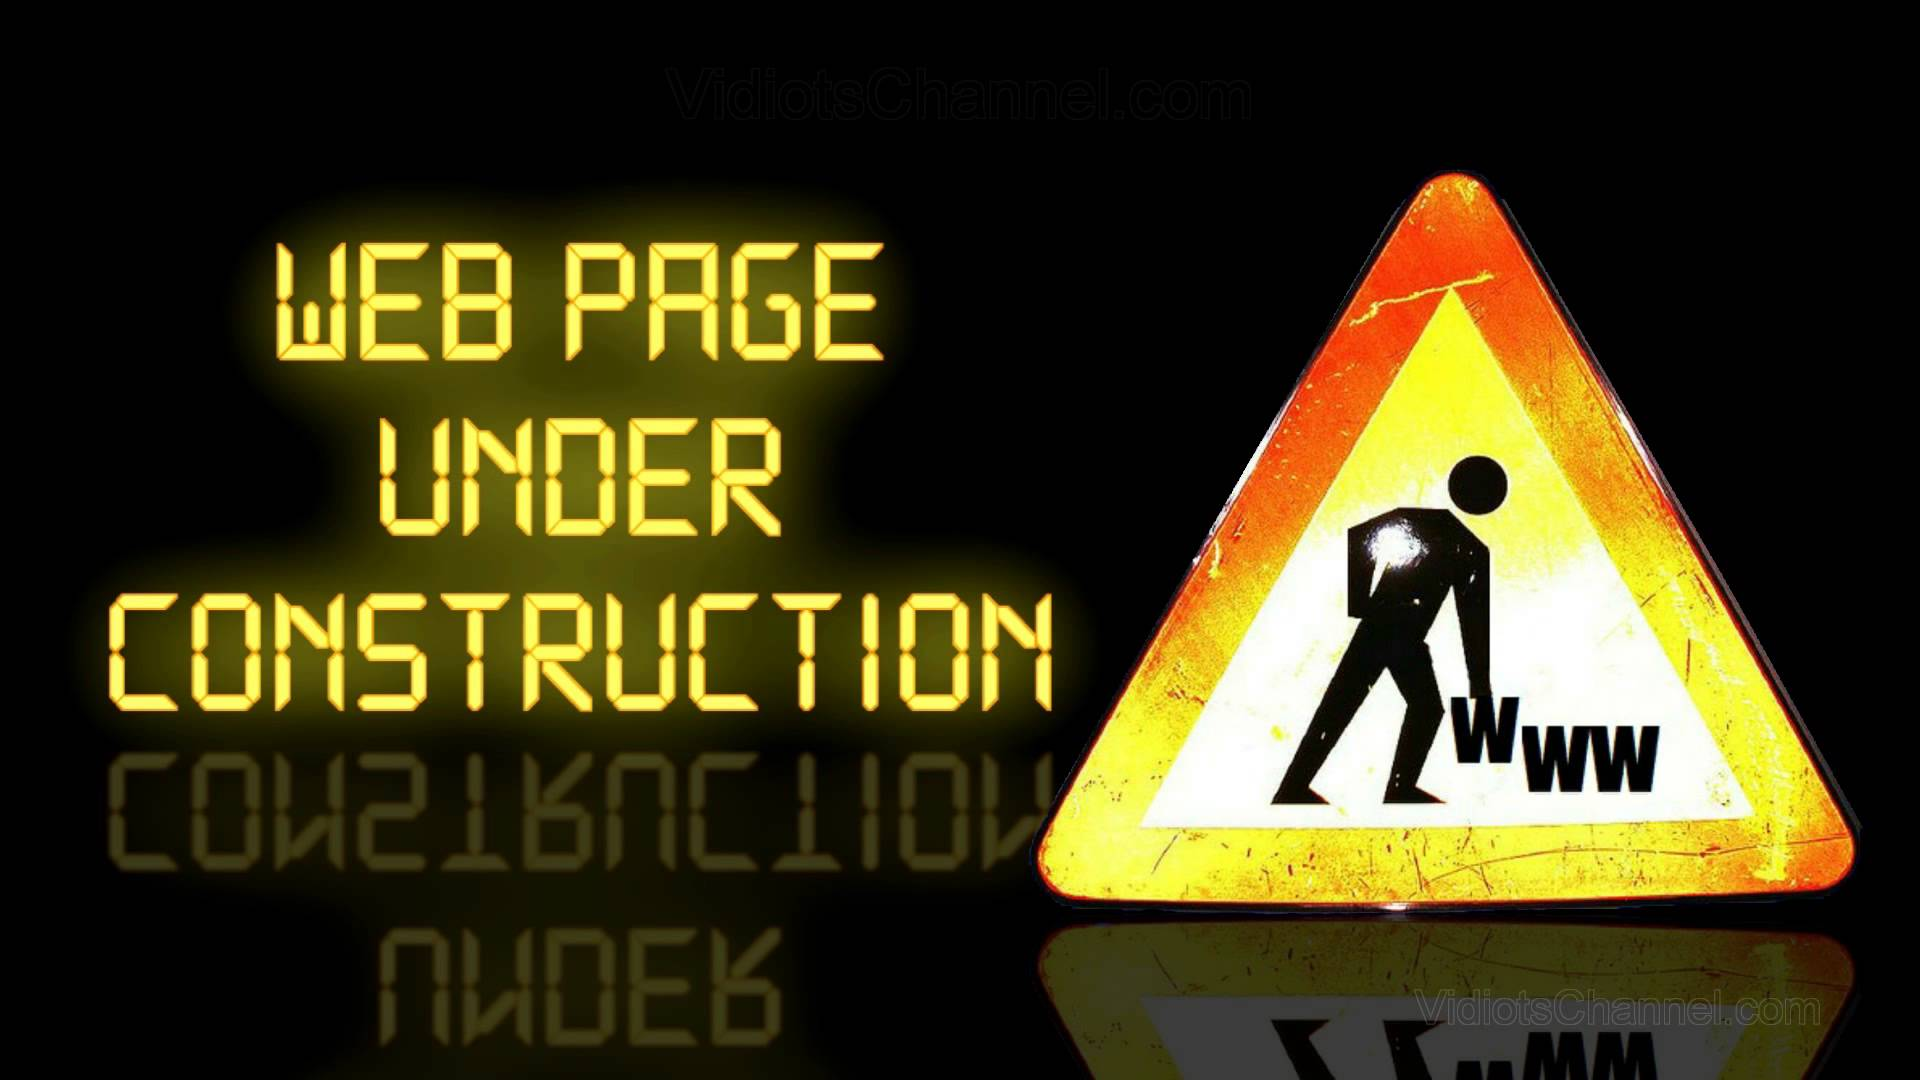
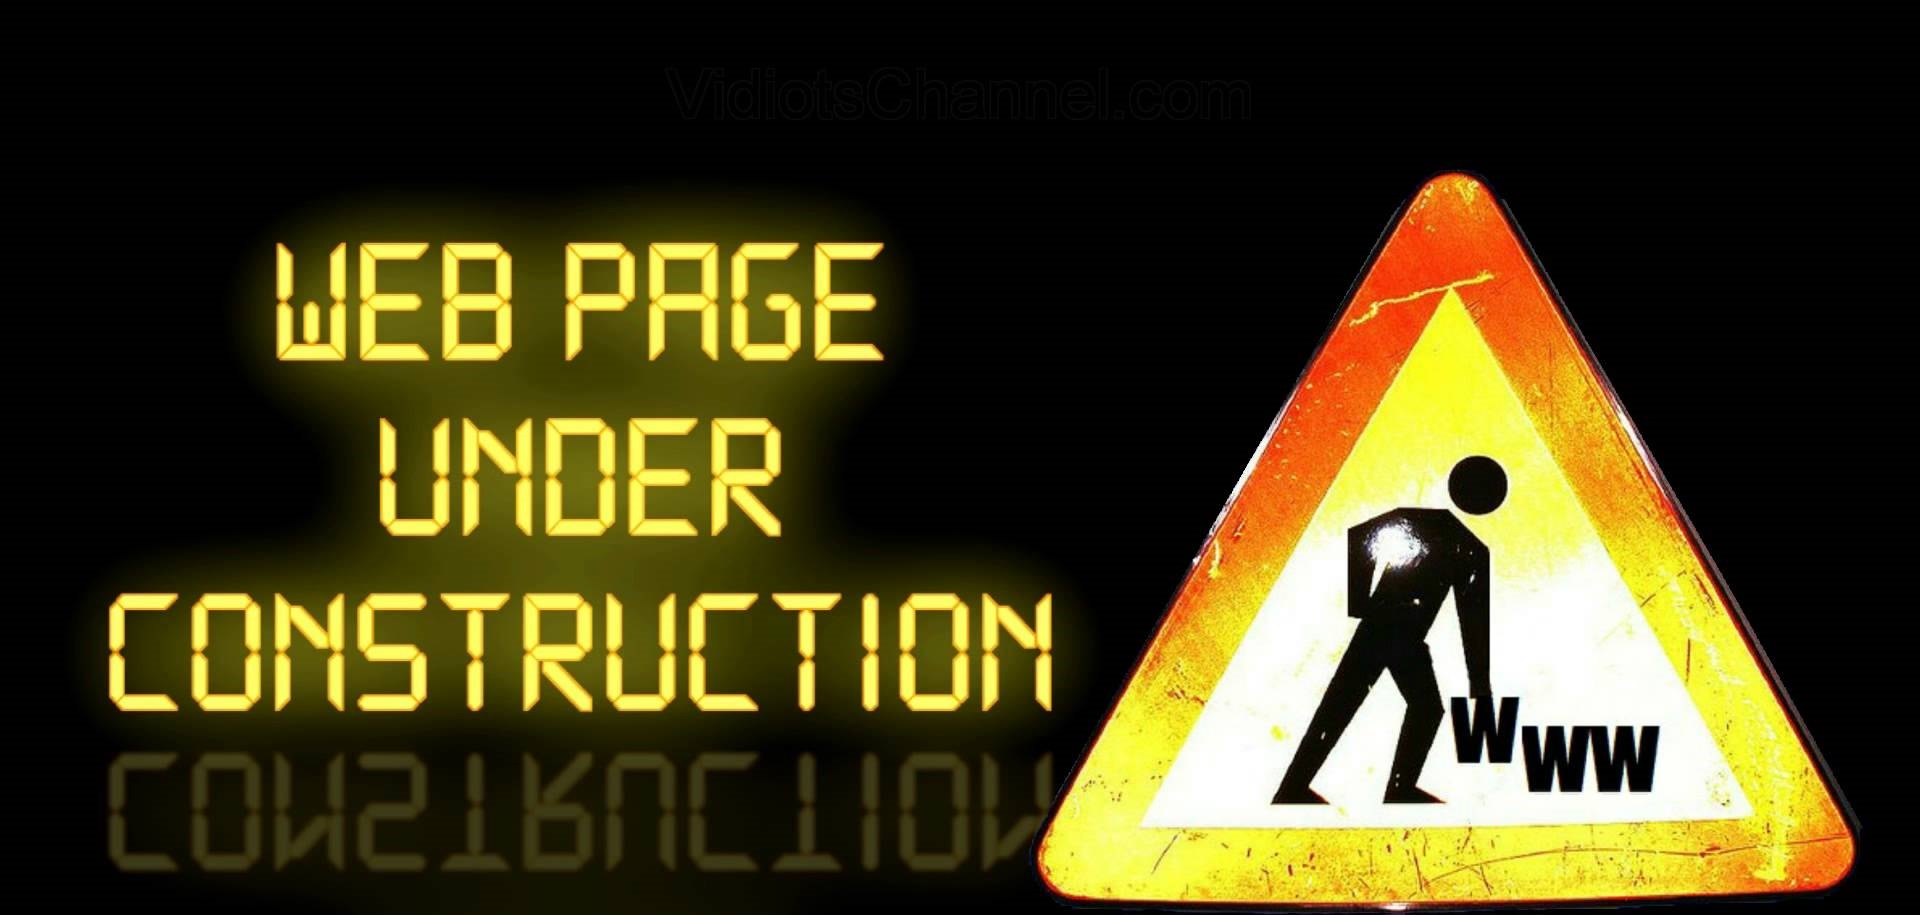
under construction pages

diff --git a/inc/menu.php b/inc/menu.php
@@ -27,25 +27,25 @@
                <li class="dropdown">
                		<a style="color:#FFFAF0;"href="#" data-toggle="dropdown" class="dropdown-toggle">Πληροφορίες <b class="caret"></b></a>
                         <ul class="dropdown-menu">
-                            <li><a style="color:#FFFAF0;" href="?page=about">Καλωσόρισμα Ββλιοθήκης</a></li>
-                            <li><a style="color:#FFFAF0;" href="#">Διοικητικό Προσωπικό</a></li>
-                            <li><a style="color:#FFFAF0;" href="#">Πολιτική Λειτουργίας</a></li>
+                            <li><a style="color:#FFFAF0;" href="?page=under_construction">Καλωσόρισμα Ββλιοθήκης</a></li>
+                            <li><a style="color:#FFFAF0;" href="?page=under_construction">Διοικητικό Προσωπικό</a></li>
+                            <li><a style="color:#FFFAF0;" href="?page=under_construction">Πολιτική Λειτουργίας</a></li>
                         </ul>
                </li>
                <li class="dropdown">
                		<a href="#" data-toggle="dropdown" class="dropdown-toggle" style="color:#FFFAF0;">Επικοινωνία <b class="caret"></b></a>
                         <ul class="dropdown-menu">
-                        	<li><a href="#" style="color:#FFFAF0;">Αποστολή Μηνύματος</a></li>
-                            <li><a href="#" style="color:#FFFAF0;">Παρατηρήσεις - Προτάσεις</a></li>
+                        	<li><a href="?page=under_construction" style="color:#FFFAF0;">Αποστολή Μηνύματος</a></li>
+                            <li><a href="?page=under_construction" style="color:#FFFAF0;">Παρατηρήσεις - Προτάσεις</a></li>
                         </ul>
                </li>
 
                <li class="dropdown">
                		<a href="?page=about" data-toggle="dropdown" class="dropdown-toggle" style="color:#FFFAF0;">Βοήθεια <b class="caret"></b></a>
                         <ul class="dropdown-menu">
-                            <li><a href="?page=about" style="color:#FFFAF0;">Συχνές Ερωτήσεις</a></li>
-                            <li><a href="#" style="color:#FFFAF0;">Οδηγίες Αναζήτησης Υλικού</a></li>
-                            <li><a href="#" style="color:#FFFAF0;">Άμεση Βοήθεια</a></li>
+                            <li><a href="?page=under_construction" style="color:#FFFAF0;">Συχνές Ερωτήσεις</a></li>
+                            <li><a href="?page=under_construction" style="color:#FFFAF0;">Οδηγίες Αναζήτησης Υλικού</a></li>
+                            <li><a href="?page=under_construction" style="color:#FFFAF0;">Άμεση Βοήθεια</a></li>
                         </ul>
                </li>
                

diff --git a/pages/under_construction.php b/pages/under_construction.php
@@ -1,1 +1,2 @@
-<h1>About page</h1>
+<h1>Under Construction</h1>
+<img style="width: 100%; margin: 0 auto;" src="images/under_construction.jpg">
